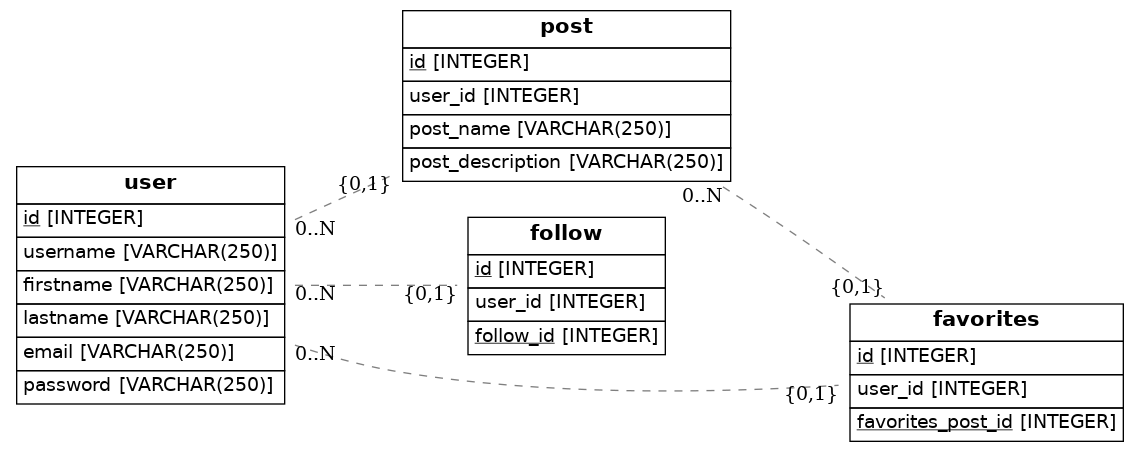
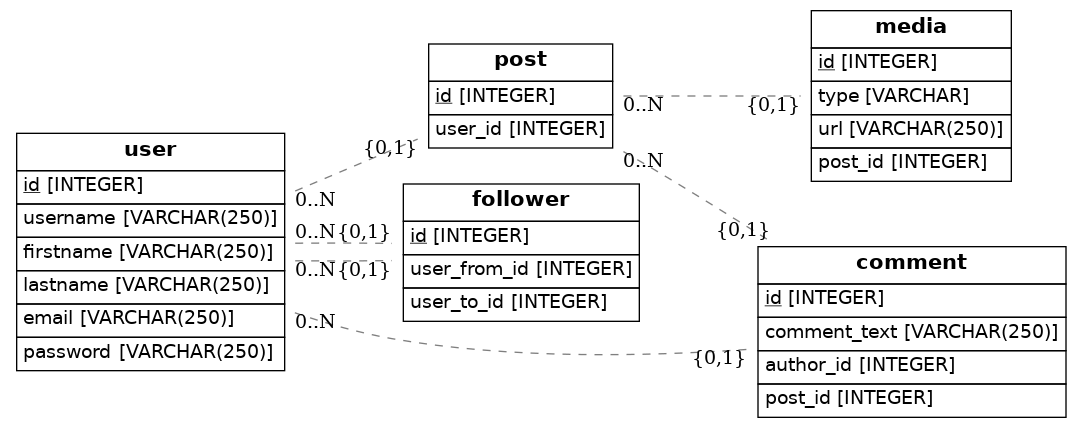
Cambios

diff --git a/src/models.py b/src/models.py
@@ -1,6 +1,6 @@
 import os
 import sys
-from sqlalchemy import Column, ForeignKey, Integer, String
+from sqlalchemy import Column, ForeignKey, Integer, String, Enum
 from sqlalchemy.ext.declarative import declarative_base
 from sqlalchemy.orm import relationship
 from sqlalchemy import create_engine
@@ -34,8 +34,7 @@ class Post(Base):
     __tablename__ = 'post'
     id = Column(Integer, primary_key=True)
     user_id = Column(Integer, ForeignKey('user.id'))
-    post_name = Column(String(250), nullable=False)
-    post_description = Column(String(250), nullable=False)   
+      
 
     def serialize(self):
         return{
@@ -45,33 +44,48 @@ class Post(Base):
             "post_description" : self.post_description,            
         }
 
-class Following(Base):
-    __tablename__ = 'follow'
-    id = Column(Integer, primary_key=True)
-    user_id = Column(Integer, ForeignKey('user.id'))
-    follow_id = Column(Integer, primary_key=True)
-    follow_to_user = relationship("User", back_populates="user_to_folllow")   
+class Follower(Base):
+    __tablename__ = 'follower'
+    id = Column(Integer, primary_key=True)    
+    user_from_id = Column(Integer, ForeignKey('user.id'))
+    user_to_id = Column(Integer, ForeignKey('user.id'))
+      
 
     def serialize(self):
-        return{
-            "id" : self.id,
-            "user_id" : self.user_id,
-            "follow_id" : self.follow_id,                        
+        return{  
+            "id" : self.id,          
+            "user_from_id" : self.user_from_id,
+            "user_to_id" : self.user_to_id                        
         }
 
-class Favorites(Base):
-    __tablename__ = 'favorites'
+class Comment(Base):
+    __tablename__ = 'comment'
     id = Column(Integer, primary_key=True)
-    user_id = Column(Integer, ForeignKey('user.id'))
-    favorites_post_id = Column(Integer, ForeignKey('post.id'), primary_key=True)
-    favorites_post = relationship("User", back_populates="user_favorites_post")   
+    comment_text = Column(String(250), nullable=False)
+    author_id = Column(Integer, ForeignKey('user.id'))
+    post_id = Column(Integer, ForeignKey('post.id'))       
 
     def serialize(self):
         return{
             "id" : self.id,
-            "user_id" : self.user_id,
-            "follow_id" : self.follow_id,                        
-        }                                        
+            "comment_text" : self.comment_text,
+            "author_id" : self.author_id                        
+        }
+
+class Media(Base):
+    __tablename__ = 'media'
+    id = Column(Integer, primary_key=True)
+    type = Column(Enum, nullable=False)
+    url = Column(String(250), nullable=False)
+    post_id = Column(Integer, ForeignKey('post.id'))       
+
+    def serialize(self):
+        return{
+            "id" : self.id,
+            "type" : self.type,
+            "url" : self.url,
+            "post_id": self.post_id                        
+        }                                                
 
 
 
